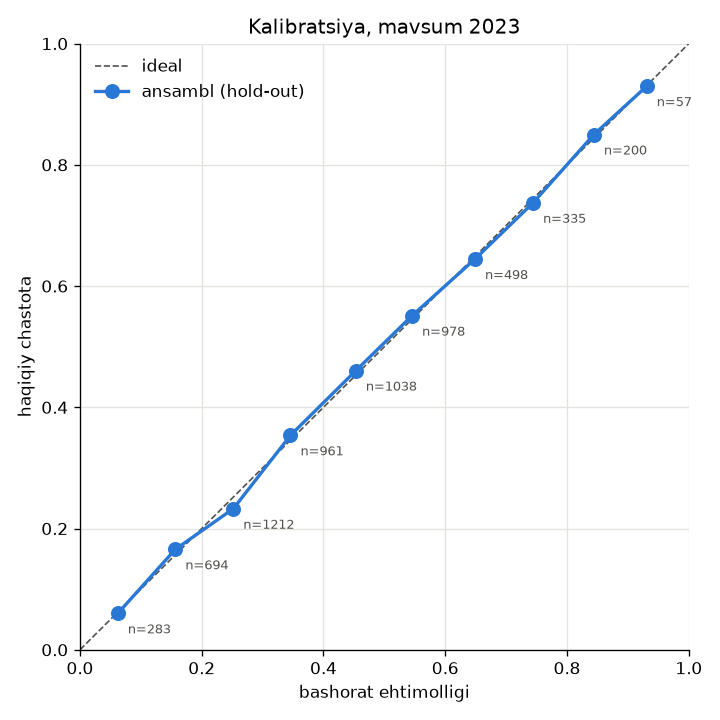
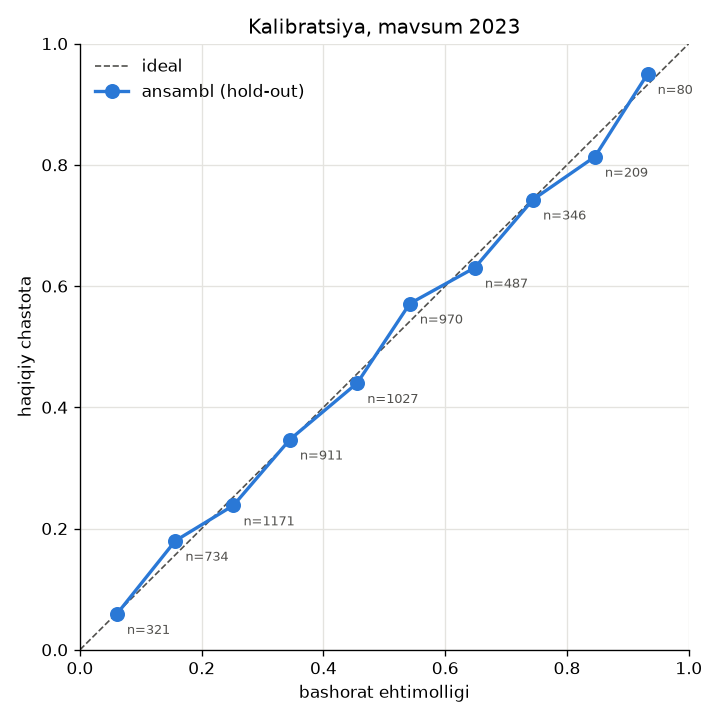
docs(backtest): regenerate synthetic report with the decision #11 gate
Default protocol (grid incl. w = 0): validation selects the pure market (w = 0), no hold-out bets, gate failed on every statistical criterion - the correct outcome on an efficient market.

diff --git a/docs/backtest/2026-10-21-synthetic.md b/docs/backtest/2026-10-21-synthetic.md
@@ -1,17 +1,17 @@
 # Backtest hisoboti: synthetic
 
 > Bu **sintetik** ma'lumotdagi backtest: bozor ta'rifiga ko'ra samarali (narx = haqiqiy ehtimollik + marja), shuning uchun kutilgan natija ROI ~ -marja va ahamiyatli ustunlik yo'qligi. U backtest vositasini tekshiradi, modelni emas. **Haqiqiy ma'lumotdagi F3 darvozasi hali kutilmoqda** (qarorlar jurnali #7: football-data.co.uk bu mashinada bloklangan; serverda `scripts/import_history.py` + `scripts/backtest.py` bilan bajariladi).
-> Sanity tekshiruvi (samarali bozor): kutilgan ROI (yopilish taqsimotida) -2.98%, haqiqiy ROI +7.48% [-15.14%; +29.26%], 89 ta signal. CI kutilganni o'z ichiga oladi: ha; ahamiyatli musbat ustunlik: yo'q; o'rtacha CLV -3.19%.
+> Sanity tekshiruvi (samarali bozor): validatsiya sof bozorni (w = 0) tanladi va hold-out da stavka qo'yilmadi — samarali bozorda kutilgan to'g'ri natija (DC bozorga ma'lumot qo'shmaydi, bozor narxida EV doim manfiy).
 
 - **Rejim:** sintetik
-- **Sana:** 2026-10-21T09:48:14+00:00
+- **Sana:** 2026-10-21T10:46:47+00:00
 - **F3 darvozasi (shu ma'lumotda):** ❌ bajarilmadi
 
 ## Qayta olinadiganlik
 
 | Parametr | Qiymat |
 |---|---|
-| Git commit | `d8dee247980e124e0377d331567fce3a3e9bd863` |
+| Git commit | `19607df74cb185b6d95ae338c1bb1cd0c19ba9b0` |
[1 lines of base64/hex data omitted]
 | Seed (bootstrap) | `20261021` |
 | O'yinlar (tugagan) | 5700 |
@@ -46,9 +46,11 @@
 
 ## Parametr tanlash (validatsiya 2022)
 
-- Sinalgan konfiguratsiyalar soni: **144** (xi x w x min EV x min ehtimollik). Eng yaxshi validatsiya ROI si ko'p sinov (multiple testing) sababli **optimistik**; haqiqiy baho - hold-out.
+- Sinalgan konfiguratsiyalar soni: **180** (xi x w x min EV x min ehtimollik). Eng yaxshi validatsiya ROI si ko'p sinov (multiple testing) sababli **optimistik**; haqiqiy baho - hold-out.
 - 1-bosqich: `(xi, w)` validatsiya log-loss bo'yicha; 2-bosqich: chegaralar ROI bo'yicha (>= 50 signal).
-- **Tanlangan:** xi = 0.0019, w = 0.25, min EV = +8.00%, min ehtimollik = 30.0%.
+- **Tanlangan:** xi = 0, w = 0, min EV = +0.00%, min ehtimollik = 30.0%.
+- ⚠ Chegaraviy w = 0 tanlandi (grid chekkasi): sof bozor modeli eng yaxshi; DC qo'shimcha ma'lumot bermadi.
+- ⚠ Hech bir chegara validatsiyada >= 50 signal bermadi: eng ko'p signalli konfiguratsiya tanlandi.
 
 Validatsiya ROI bo'yicha eng yaxshi 10 ta qator:
 
@@ -71,56 +73,50 @@ Bashoratlar: 1140 · o'tkazib yuborilgan: yo'q · fitlar: 114 (muvaffaqiyatsiz: 
 
 | Ko'rsatkich | Qiymat |
 |---|---|
-| Signallar | 89 |
-| ROI / yield (flat) | +7.48% [-15.14%; +29.26%] |
-| Foyda (flat, birlik) | +6.66 |
-| Hit rate (foyda bilan yopilgan) | 43.8% |
-| Maksimal pasayish (flat, birlik) | 10.28 |
-| ROI yopilish narxida (89 ta) | +7.98% [-15.16%; +31.16%] |
-| CLV: o'rtacha log(odds / yopilish adolatli) (89 ta) | -3.19% [-3.33%; -3.05%] |
-| Yopilishni yutgan ulush | 0.0% |
-| Yopilish taqsimotida kutilgan EV | -2.98% |
-| Kelly 1/4: ROI · bank daromadi · maks. pasayish | +4.18% · +6.76% · 19.44 |
+| Signallar | 0 |
+| ROI / yield (flat) | +0.00%  |
+| Foyda (flat, birlik) | +0.00 |
+| Hit rate (foyda bilan yopilgan) | 0.0% |
+| Maksimal pasayish (flat, birlik) | 0.00 |
+| ROI yopilish narxida (0 ta) | -  |
+| CLV: o'rtacha log(odds / yopilish adolatli) (0 ta) | -  |
+| Yopilish narxi bor stavkalar (CLV qamrovi) | 0 / 0 |
+| Yopilishsiz stavkalar ROI, olingan narxda (0 ta) | - |
+| Yopilishni yutgan ulush | - |
+| Yopilish taqsimotida kutilgan EV | - |
+| Kelly 1/4: ROI · bank daromadi · maks. pasayish | +0.00% · +0.00% · 0.00 |
 
 **Proper scoring (bozor nusxasiga o'rtacha; kichik = yaxshi):**
 
 | Guruh | n | log-loss ansambl | log-loss DC | log-loss bozor (yopilish) | Brier ansambl | Brier DC | Brier bozor |
 |---|---|---|---|---|---|---|---|
-| 1x2 | 1132 | 0.9279 | 0.9506 | 0.9273 | 0.5487 | 0.5628 | 0.5487 |
-| asian_handicap (x.5) | 294 | 0.6954 | 0.7287 | 0.6918 | 0.5021 | 0.5311 | 0.4987 |
-| totals 2.5 | 1136 | 0.6105 | 0.6302 | 0.6097 | 0.4237 | 0.4393 | 0.4232 |
-| all | 2562 | 0.7605 | 0.7830 | 0.7594 | 0.4879 | 0.5044 | 0.4873 |
+| 1x2 | 1132 | 0.9274 | 0.9487 | 0.9273 | 0.5488 | 0.5619 | 0.5487 |
+| asian_handicap (x.5) | 294 | 0.6917 | 0.7319 | 0.6918 | 0.4986 | 0.5349 | 0.4987 |
+| totals 2.5 | 1136 | 0.6097 | 0.6325 | 0.6097 | 0.4233 | 0.4419 | 0.4232 |
+| all | 2562 | 0.7595 | 0.7836 | 0.7594 | 0.4874 | 0.5056 | 0.4873 |
 
 **Kalibratsiya (ansambl):**
 
 | Oraliq | n | o'rtacha bashorat | haqiqiy chastota | og'ish |
 |---|---|---|---|---|
-| 0%-10% | 283 | 6.2% | 6.0% | -0.2 p.p. |
-| 10%-20% | 694 | 15.7% | 16.6% | +0.9 p.p. |
-| 20%-30% | 1212 | 25.2% | 23.3% | -1.9 p.p. |
-| 30%-40% | 961 | 34.6% | 35.4% | +0.8 p.p. |
-| 40%-50% | 1038 | 45.3% | 46.1% | +0.7 p.p. |
-| 50%-60% | 978 | 54.5% | 55.1% | +0.6 p.p. |
-| 60%-70% | 498 | 64.9% | 64.5% | -0.4 p.p. |
-| 70%-80% | 335 | 74.4% | 73.7% | -0.7 p.p. |
-| 80%-90% | 200 | 84.4% | 85.0% | +0.6 p.p. |
-| 90%-100% | 57 | 93.1% | 93.0% | -0.1 p.p. |
+| 0%-10% | 321 | 6.1% | 5.9% | -0.2 p.p. |
+| 10%-20% | 734 | 15.7% | 18.0% | +2.3 p.p. |
+| 20%-30% | 1171 | 25.2% | 23.8% | -1.4 p.p. |
+| 30%-40% | 911 | 34.5% | 34.7% | +0.2 p.p. |
+| 40%-50% | 1027 | 45.5% | 44.0% | -1.5 p.p. |
+| 50%-60% | 970 | 54.2% | 57.1% | +2.9 p.p. |
+| 60%-70% | 487 | 64.9% | 63.0% | -1.8 p.p. |
+| 70%-80% | 346 | 74.4% | 74.3% | -0.1 p.p. |
+| 80%-90% | 209 | 84.6% | 81.3% | -3.2 p.p. |
+| 90%-100% | 80 | 93.2% | 95.0% | +1.8 p.p. |
 
 **Liga kesimi:**
 
-| Kesim | signallar | ROI (95% CI) | CLV |
-|---|---|---|---|
-| Synthetic League 0 | 17 | +41.76% [-18.13%; +100.01%] | -3.24% |
-| Synthetic League 1 | 28 | -2.50% [-36.44%; +33.75%] | -3.46% |
-| Synthetic League 2 | 44 | +0.59% [-32.76%; +33.71%] | -3.00% |
+_signal yo'q_
 
 **Bozor kesimi:**
 
-| Kesim | signallar | ROI (95% CI) | CLV |
-|---|---|---|---|
-| 1x2 | 20 | +65.50% [+10.55%; +115.86%] | -2.61% |
-| asian_handicap | 40 | +7.60% [-19.28%; +33.01%] | -3.01% |
-| totals 2.5 | 29 | -32.69% [-71.18%; +9.04%] | -3.84% |
+_signal yo'q_
 
 ## Validatsiya (tanlangan konfiguratsiya, optimistik): mavsum 2022
 
@@ -128,56 +124,50 @@ Bashoratlar: 1140 · o'tkazib yuborilgan: yo'q · fitlar: 114 (muvaffaqiyatsiz: 
 
 | Ko'rsatkich | Qiymat |
 |---|---|
-| Signallar | 94 |
-| ROI / yield (flat) | +14.01% [-9.35%; +38.96%] |
-| Foyda (flat, birlik) | +13.17 |
-| Hit rate (foyda bilan yopilgan) | 46.8% |
-| Maksimal pasayish (flat, birlik) | 5.88 |
-| ROI yopilish narxida (94 ta) | +14.54% [-10.32%; +39.18%] |
-| CLV: o'rtacha log(odds / yopilish adolatli) (94 ta) | -3.10% [-3.22%; -2.98%] |
-| Yopilishni yutgan ulush | 0.0% |
-| Yopilish taqsimotida kutilgan EV | -2.95% |
-| Kelly 1/4: ROI · bank daromadi · maks. pasayish | +7.66% · +12.86% · 11.53 |
+| Signallar | 0 |
+| ROI / yield (flat) | +0.00%  |
+| Foyda (flat, birlik) | +0.00 |
+| Hit rate (foyda bilan yopilgan) | 0.0% |
+| Maksimal pasayish (flat, birlik) | 0.00 |
+| ROI yopilish narxida (0 ta) | -  |
+| CLV: o'rtacha log(odds / yopilish adolatli) (0 ta) | -  |
+| Yopilish narxi bor stavkalar (CLV qamrovi) | 0 / 0 |
+| Yopilishsiz stavkalar ROI, olingan narxda (0 ta) | - |
+| Yopilishni yutgan ulush | - |
+| Yopilish taqsimotida kutilgan EV | - |
+| Kelly 1/4: ROI · bank daromadi · maks. pasayish | +0.00% · +0.00% · 0.00 |
 
 **Proper scoring (bozor nusxasiga o'rtacha; kichik = yaxshi):**
 
 | Guruh | n | log-loss ansambl | log-loss DC | log-loss bozor (yopilish) | Brier ansambl | Brier DC | Brier bozor |
 |---|---|---|---|---|---|---|---|
-| 1x2 | 1139 | 0.9265 | 0.9466 | 0.9275 | 0.5489 | 0.5624 | 0.5497 |
-| asian_handicap (x.5) | 283 | 0.6893 | 0.7152 | 0.6888 | 0.4962 | 0.5192 | 0.4957 |
-| totals 2.5 | 1140 | 0.6287 | 0.6560 | 0.6245 | 0.4400 | 0.4634 | 0.4368 |
-| all | 2562 | 0.7678 | 0.7918 | 0.7663 | 0.4946 | 0.5136 | 0.4935 |
+| 1x2 | 1139 | 0.9275 | 0.9501 | 0.9275 | 0.5497 | 0.5648 | 0.5497 |
+| asian_handicap (x.5) | 283 | 0.6888 | 0.7153 | 0.6888 | 0.4956 | 0.5194 | 0.4957 |
+| totals 2.5 | 1140 | 0.6244 | 0.6581 | 0.6245 | 0.4367 | 0.4653 | 0.4368 |
+| all | 2562 | 0.7663 | 0.7943 | 0.7663 | 0.4935 | 0.5155 | 0.4935 |
 
 **Kalibratsiya (ansambl):**
 
 | Oraliq | n | o'rtacha bashorat | haqiqiy chastota | og'ish |
 |---|---|---|---|---|
-| 0%-10% | 225 | 6.4% | 6.2% | -0.2 p.p. |
-| 10%-20% | 659 | 16.0% | 14.6% | -1.4 p.p. |
-| 20%-30% | 1264 | 25.3% | 24.5% | -0.8 p.p. |
-| 30%-40% | 996 | 34.6% | 35.1% | +0.6 p.p. |
-| 40%-50% | 1096 | 45.3% | 47.0% | +1.7 p.p. |
-| 50%-60% | 984 | 54.7% | 53.3% | -1.4 p.p. |
-| 60%-70% | 522 | 64.7% | 65.7% | +1.0 p.p. |
-| 70%-80% | 331 | 74.6% | 75.2% | +0.7 p.p. |
-| 80%-90% | 146 | 83.9% | 83.6% | -0.4 p.p. |
-| 90%-100% | 40 | 93.1% | 97.5% | +4.4 p.p. |
+| 0%-10% | 241 | 6.3% | 5.4% | -0.9 p.p. |
+| 10%-20% | 691 | 15.7% | 14.6% | -1.1 p.p. |
+| 20%-30% | 1249 | 25.1% | 25.5% | +0.4 p.p. |
+| 30%-40% | 991 | 34.6% | 35.3% | +0.7 p.p. |
+| 40%-50% | 1035 | 45.7% | 47.3% | +1.6 p.p. |
+| 50%-60% | 950 | 54.1% | 50.9% | -3.1 p.p. |
+| 60%-70% | 556 | 64.7% | 66.4% | +1.7 p.p. |
+| 70%-80% | 327 | 74.5% | 74.9% | +0.4 p.p. |
+| 80%-90% | 177 | 84.2% | 81.9% | -2.3 p.p. |
+| 90%-100% | 46 | 93.5% | 100.0% | +6.5 p.p. |
 
 **Liga kesimi:**
 
-| Kesim | signallar | ROI (95% CI) | CLV |
-|---|---|---|---|
-| Synthetic League 0 | 28 | +43.43% [-4.01%; +89.75%] | -3.14% |
-| Synthetic League 1 | 28 | +26.70% [-15.29%; +69.54%] | -3.08% |
-| Synthetic League 2 | 38 | -17.03% [-51.19%; +17.28%] | -3.09% |
+_signal yo'q_
 
 **Bozor kesimi:**
 
-| Kesim | signallar | ROI (95% CI) | CLV |
-|---|---|---|---|
-| 1x2 | 35 | +43.86% [-2.14%; +87.97%] | -2.68% |
-| asian_handicap | 36 | -7.43% [-37.61%; +23.24%] | -2.99% |
-| totals 2.5 | 23 | +2.13% [-51.22%; +58.00%] | -3.91% |
+_signal yo'q_
 
 ## Grafiklar
 
@@ -185,11 +175,14 @@ Bashoratlar: 1140 · o'tkazib yuborilgan: yo'q · fitlar: 114 (muvaffaqiyatsiz: 
 
 ![Foyda egri chizig'i](2026-10-21-synthetic-equity.png)
 
-## F3 darvozasi (hold-out)
+## F3 darvozasi (hold-out, qaror #11)
 
-| Mezon | Natija | Tafsilot |
-|---|---|---|
-| Kalibratsiya: har 10% oraliqda og'ish <= 5 p.p. | ✅ | eng katta og'ish 1.9 p.p. (9 ta oraliq, n >= 100) |
-| Yopilish koeffitsientida >= 500 signal va ROI >= 0% | ❌ | 89 ta signal, ROI (yopilishda) +7.98% [-15.16%; +31.16%] |
-| EV >= 5% filtrida ROI musbat | ✅ | ROI +7.48% [-15.14%; +29.26%], 89 ta signal |
-| Kamida 3 ta ligada musbat yoki nolga yaqin | ❌ | 2 ta liga ROI >= -2.00%: Synthetic League 0, Synthetic League 2 |
+| Mezon | Nuqta bahosi | 95% CI | n | Holat | Izoh |
+|---|---|---|---|---|---|
+| Kalibratsiya: har 10% oraliqda (n >= 30) og'ish <= 5 p.p. | eng katta 3.2 p.p. | - | 10 oraliq / 6256 bashorat | ✅ | ansambl, partition bozorlar |
+| >= 500 signal; CLV o'rtachasi > 0 va 95% CI pastki chegarasi > 0 | - | - | 0 / 0 | ❌ | faqat yopilish narxi bor stavkalar; signal kam (< 500) |
+| ROI: nuqta >= 0% va 95% CI pastki chegarasi >= -2.00% | - | - | 0 | ❌ | flat, olingan koeffitsientda |
+| Kamida 3 ta ligada (har biri n >= 100) CLV > 0 | 0 liga | - | 0 / 0 liga n >= 100 | ❌ | - |
+| Sof bozor (w = 0) bazaviy varianti bilan solishtirish (log-loss) | 0.7595 vs 0.7595 | - | hold-out partition bozorlar | ❌ | w = 0 tanlandi: DC bozorga ma'lumot qo'shmaydi |
+
+Darvoza faqat barcha mezonlar ✅ bo'lsa o'tadi. 'ahamiyatsiz' = nuqta bahosi bajarilgan, lekin 95% CI bajarilmagan (qarorlar jurnali #11): ✅ hisoblanmaydi.
